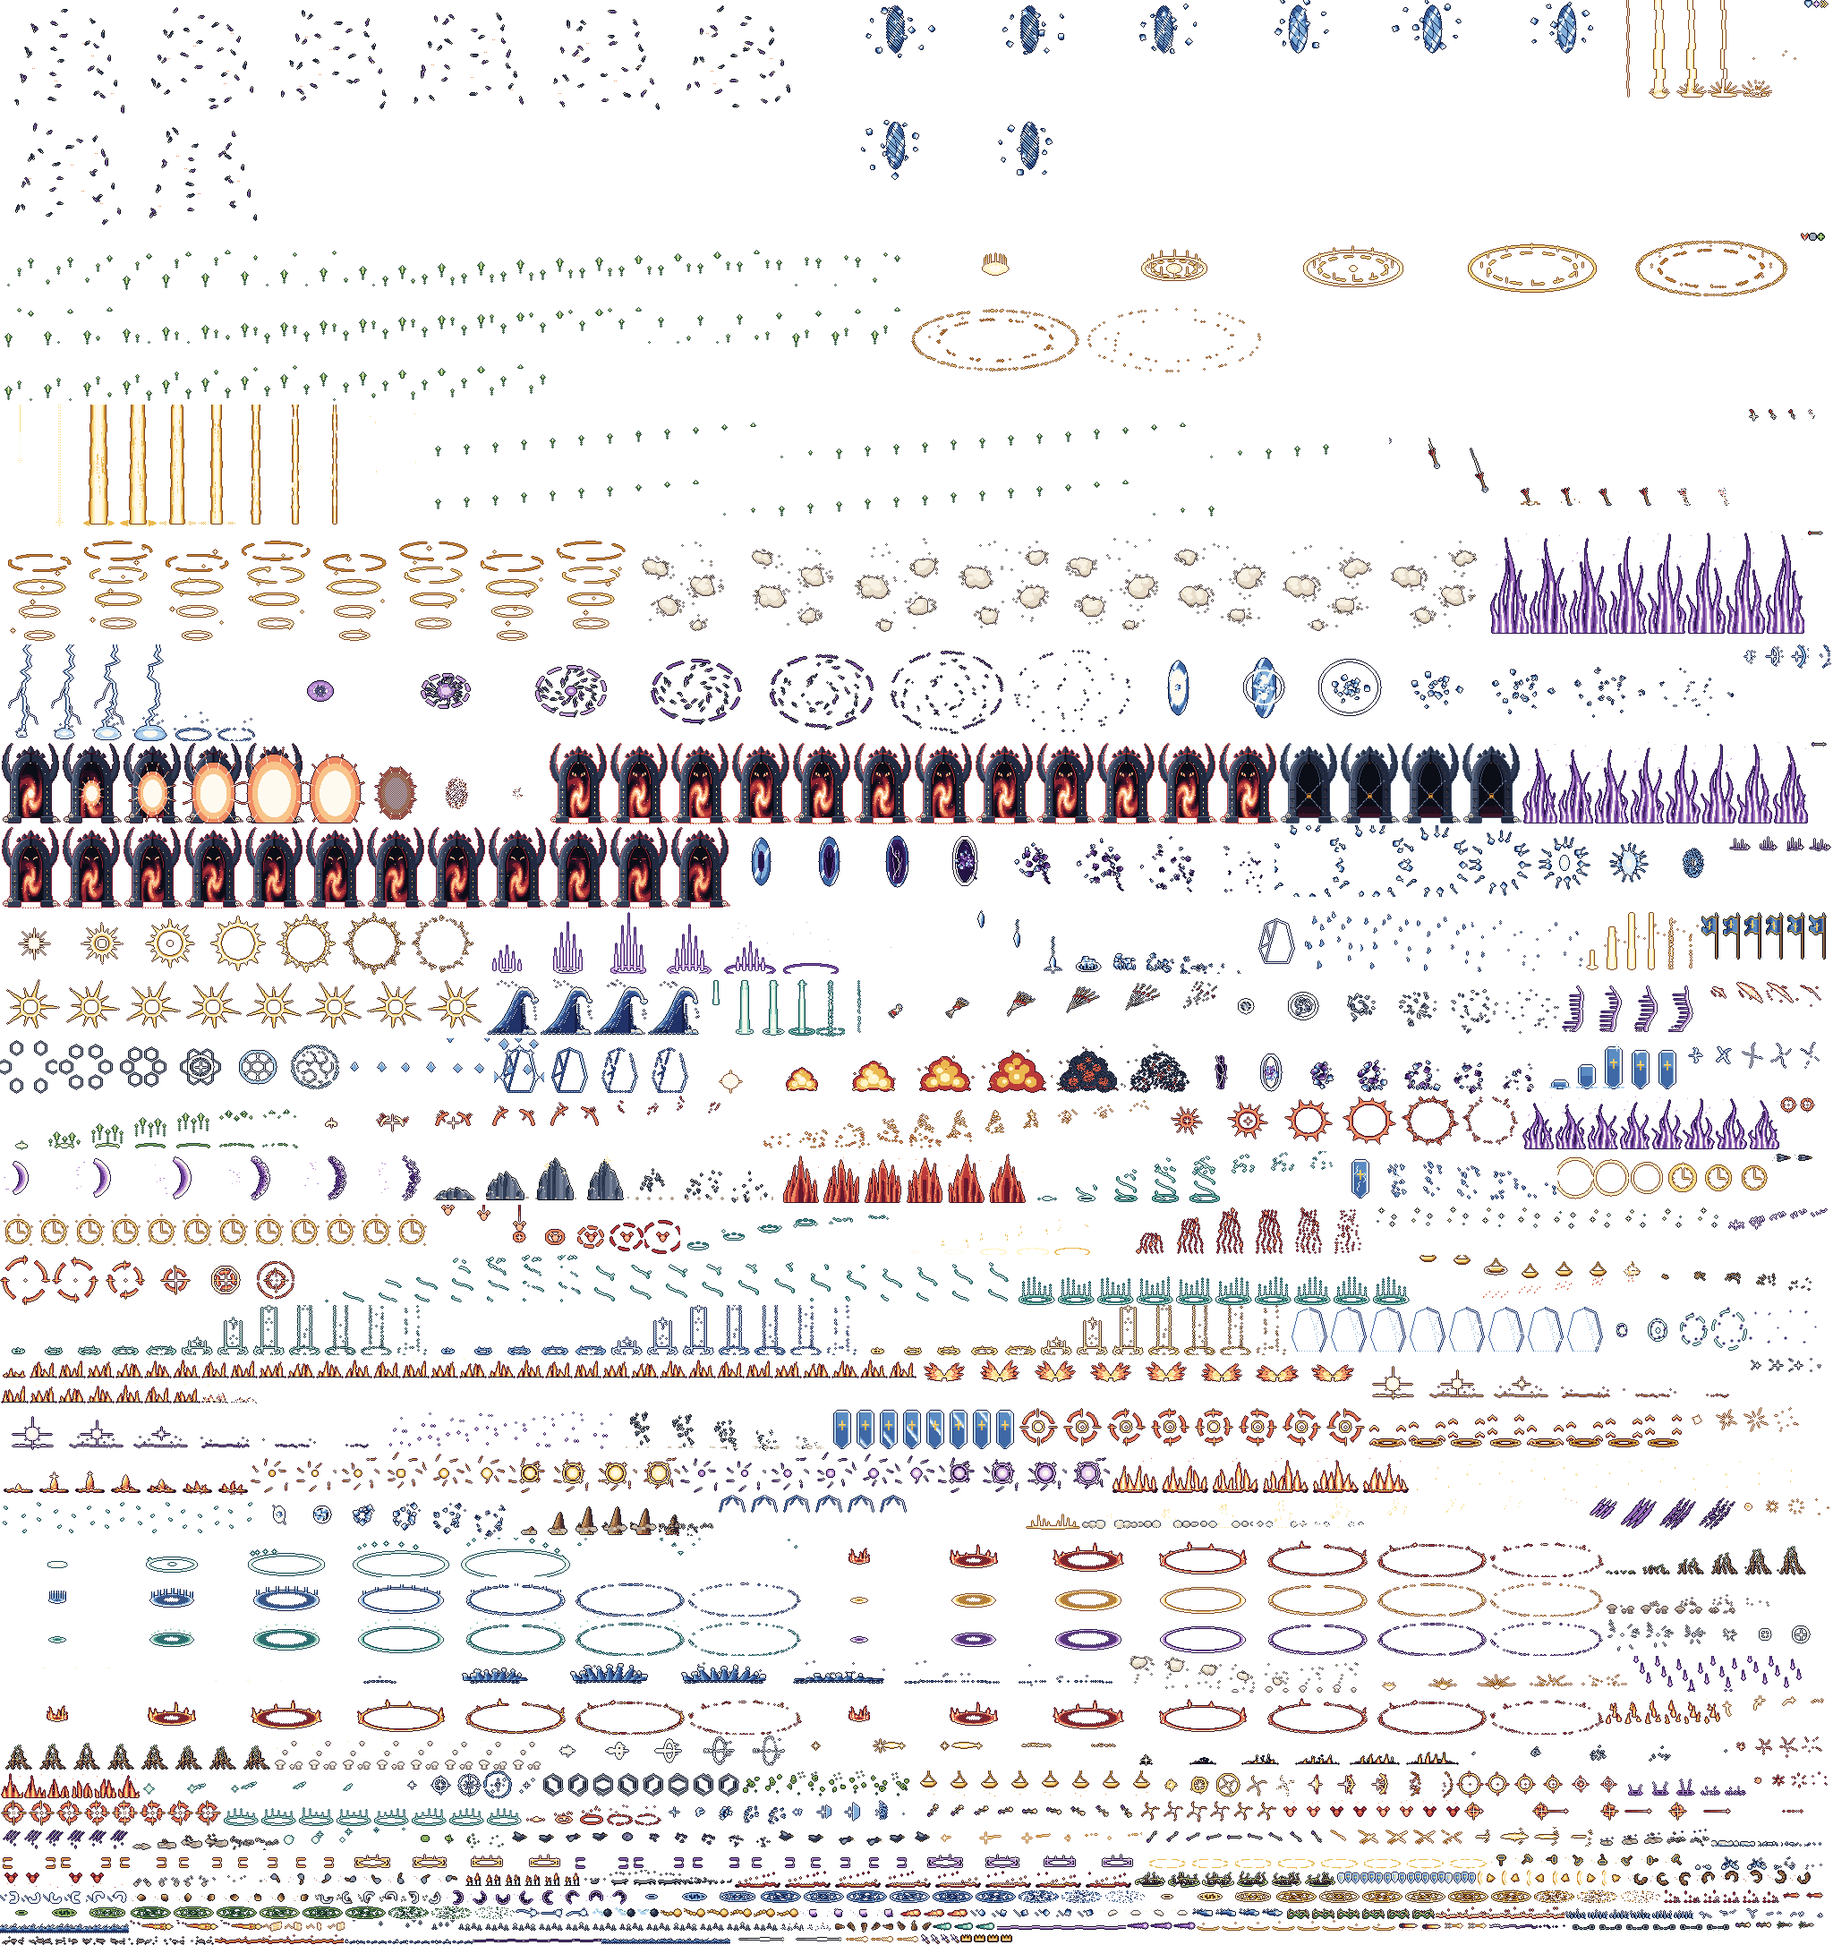
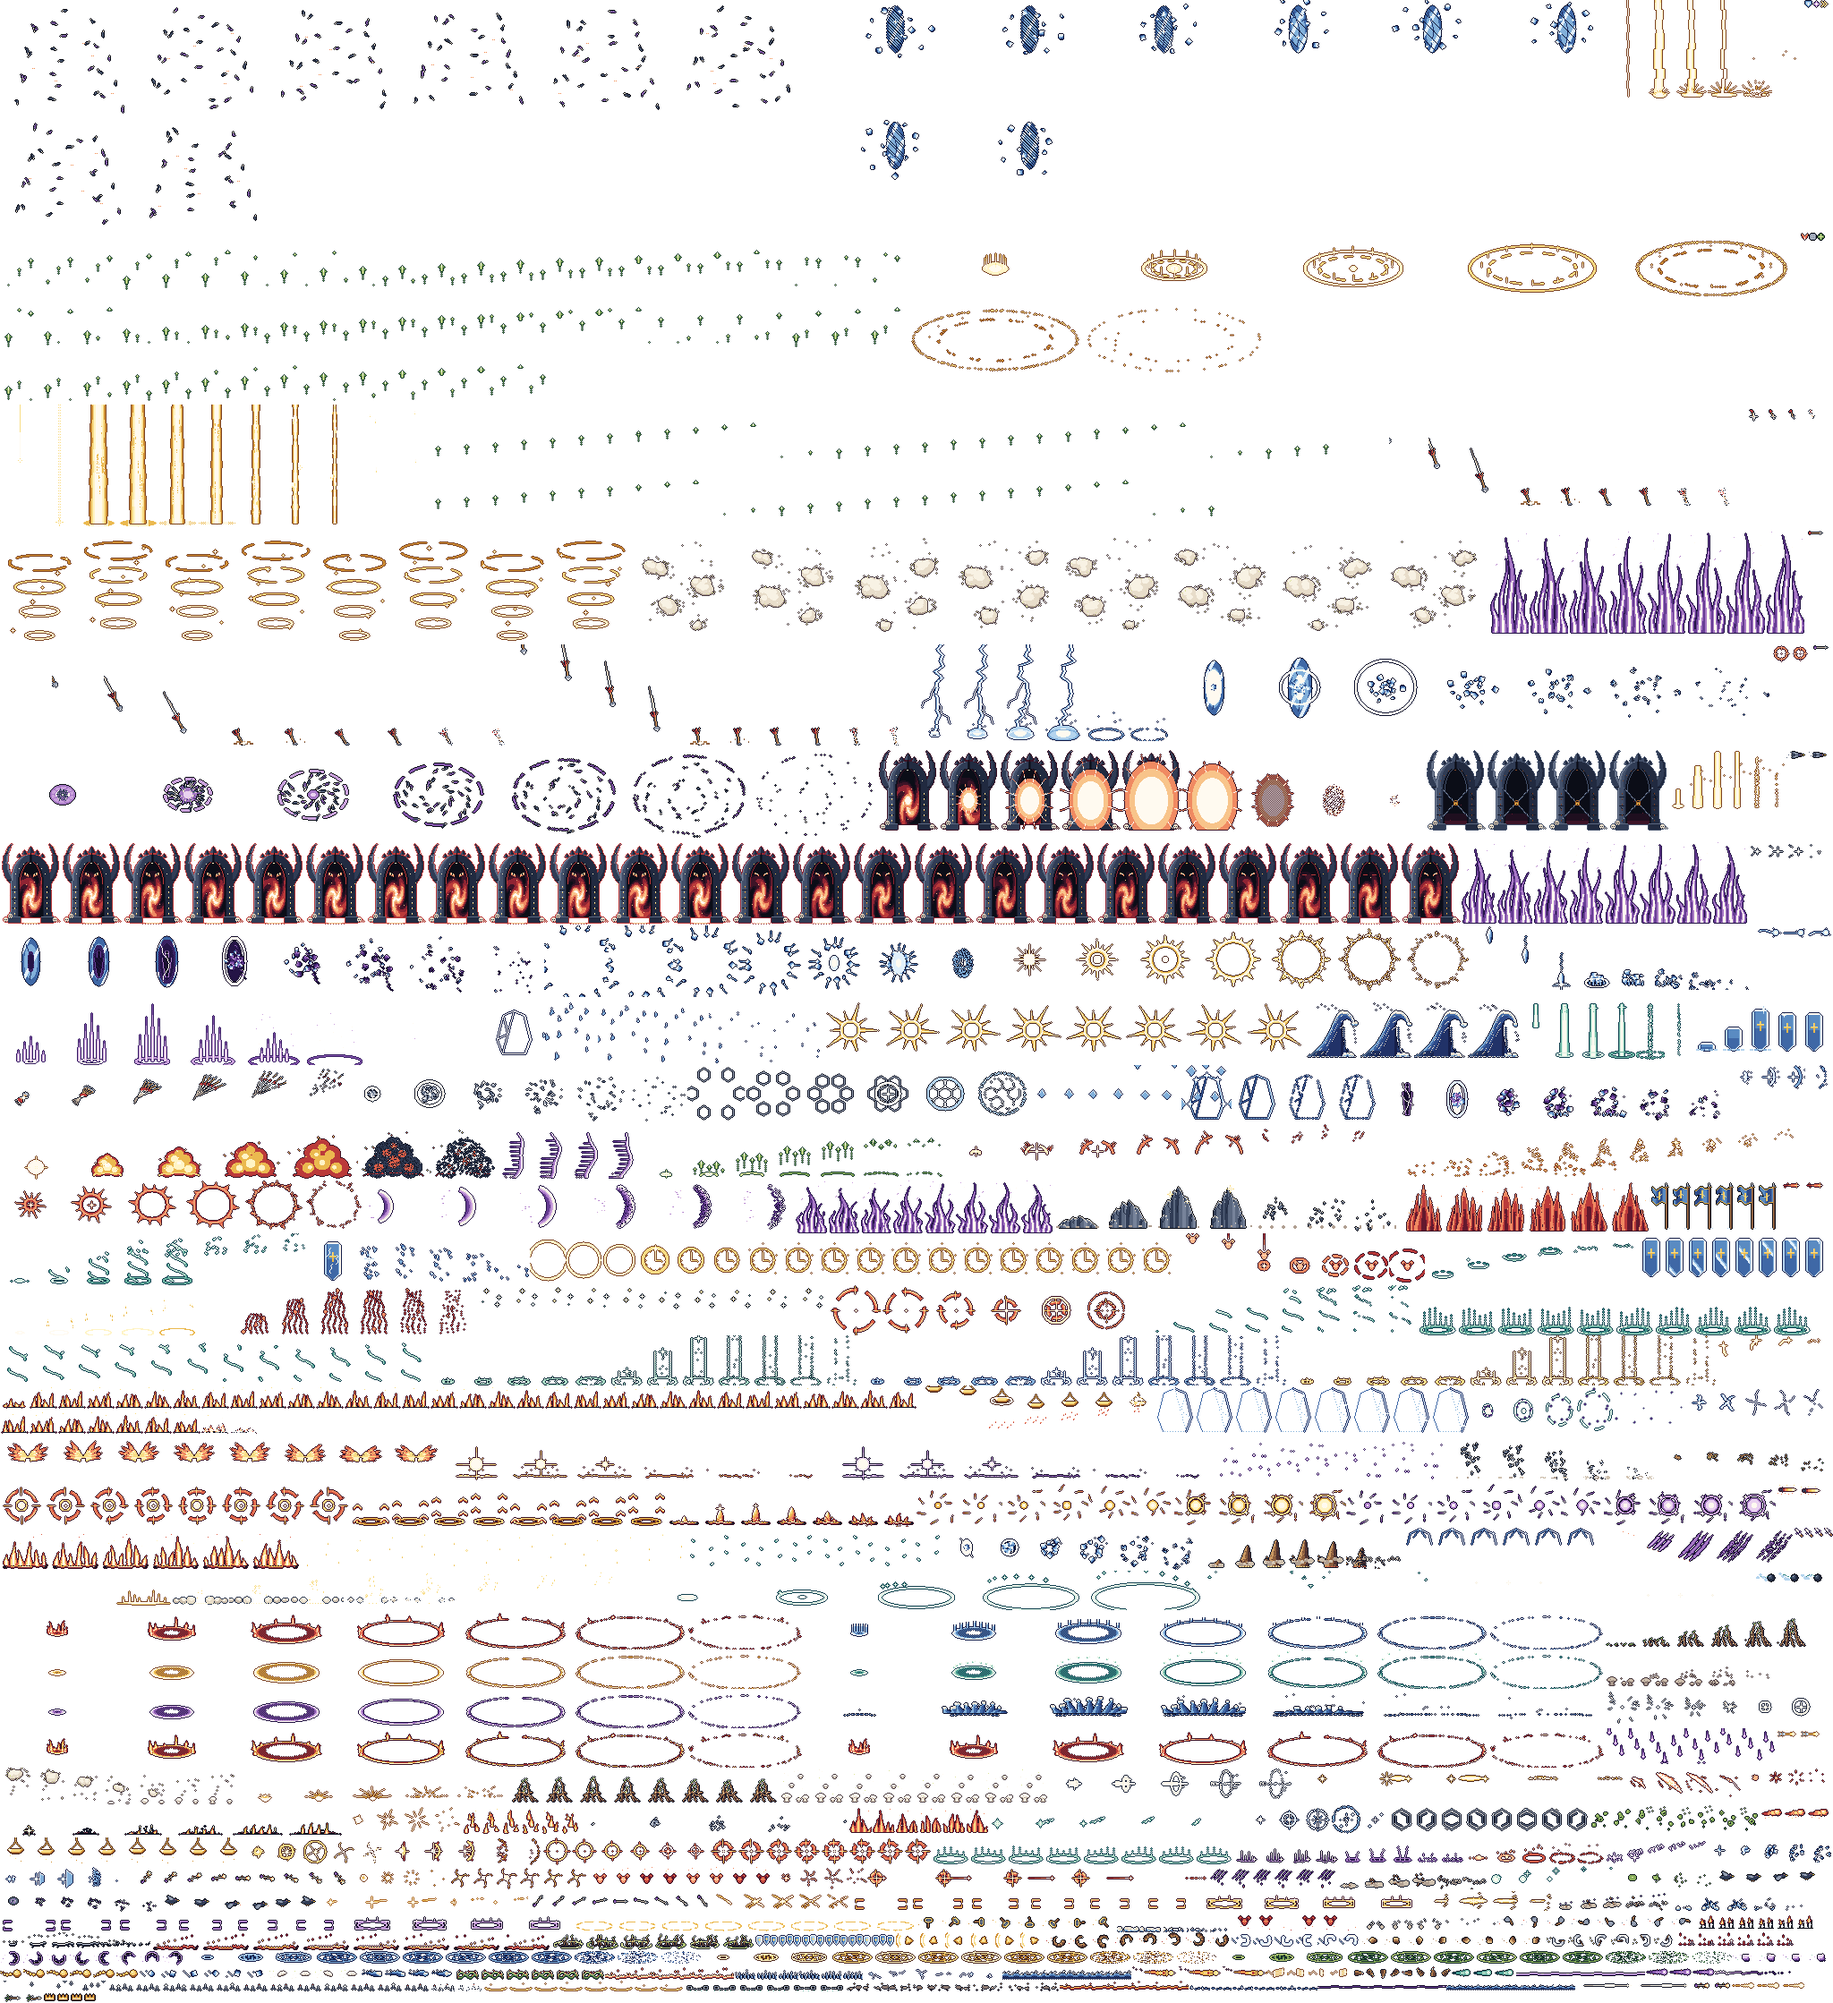
tune(fx): Raining Arrows as a loose rain — half the arrows, anywhere along the band, at three angles and depths, each wave spread over a quarter second (BandLook loose/variants/depth)

diff --git a/src/game/render/abilityFx.ts b/src/game/render/abilityFx.ts
@@ -87,6 +87,12 @@ export interface BandLook {
   count?: number;
   /** The band reaches this many pixels past each end of the wave (a rain wider than what it falls on). */
   reach?: number;
+  /** Placed anywhere along the band at random, not one per `every` pixels in a row (a rain, not a fence). */
+  loose?: boolean;
+  /** Each one drawn from these instead of `fx` alone, at random (the rain's arrows at three angles). */
+  variants?: readonly string[];
+  /** Each one set this many pixels nearer or further at random (above or below the ground line). */
+  depth?: number;
 }
 
 export interface AbilityLook {
@@ -189,8 +195,10 @@ export const ABILITY_LOOKS: Readonly<Record<string, AbilityLook>> = {
   // arrows, close together, a rain wider than the wave (2026-11-19, user: «más aparente… 3 oleadas claras»).
   ranger_multishot: {
     cast: [{ fx: 'volley_launch', spot: 'caster-over', atBlow: true }],
-    band: [{ fx: 'arrow_fall', layer: 'air', every: 8, spreadMs: 100, atBlow: true, delayMs: 40, reach: 18 }],
-    hit: 'arrow_hit', hitDelayMs: 240,
+    // A loose rain (user: «demasiadas flechas y muy alineadas… ráfagas menos uniformes»): one arrow every 14 px,
+    // anywhere along the band, at one of three angles and depths, coming down over a quarter of a second.
+    band: [{ fx: 'arrow_fall', variants: ['arrow_fall', 'arrow_fall_steep', 'arrow_fall_low'], layer: 'air', every: 14, spreadMs: 260, atBlow: true, delayMs: 20, reach: 18, loose: true, depth: 4 }],
+    hit: 'arrow_hit', hitDelayMs: 300,
   },
   // Explosive Arrow: one burning arrow to the front of the wave, and the blast where it lands.
   ranger_focus: { shot: { fx: 'arrow_fire', land: 'fire_blast' }, shotTo: 'front' },

diff --git a/src/game/GameStrip.ts b/src/game/GameStrip.ts
@@ -842,10 +842,15 @@ export class GameStrip {
     const n = scatter.count ?? bandCount(halfW * 2, scatter.every);
     const step = (halfW * 2) / n;
     for (let i = 0; i < n; i++) {
-      const x = band.cx - halfW + step * (i + 0.5) + (scatter.count === undefined ? (Math.random() - 0.5) * step * 0.6 : 0);
+      const x =
+        scatter.loose === true
+          ? band.cx - halfW + Math.random() * halfW * 2
+          : band.cx - halfW + step * (i + 0.5) + (scatter.count === undefined ? (Math.random() - 0.5) * step * 0.6 : 0);
+      const y = groundY + (scatter.depth !== undefined ? Math.round((Math.random() * 2 - 1) * scatter.depth) : 0);
+      const fx = scatter.variants !== undefined && scatter.variants.length > 0 ? (scatter.variants[Math.floor(Math.random() * scatter.variants.length)] ?? scatter.fx) : scatter.fx;
       // In order from the near end (a sweep) or at random over `spreadMs`.
       const at = wait + (scatter.delayMs ?? 0) + (scatter.sweepMs !== undefined ? (scatter.sweepMs * i) / Math.max(1, n - 1) : Math.random() * (scatter.spreadMs ?? 0));
-      this.delayed.add(at, () => layer.play(scatter.fx, x, groundY));
+      this.delayed.add(at, () => layer.play(fx, x, y));
     }
   }
 

diff --git a/docs/redesign/lab/abilities_r1.html b/docs/redesign/lab/abilities_r1.html
@@ -1,6 +1,6 @@
 <div class="item-group">
   <h3>Lluvia de flechas · ahora</h3>
-  <p class="muted">Tres oleadas, cada una con un tercio del daño (el total es el mismo), cada 0,45 s. Flechas grandes que caen desde más alto, se clavan levantando tierra y desaparecen antes de que llegue la siguiente, para que se distingan las tres. La franja llega algo más allá de la oleada enemiga.</p>
+  <p class="muted">Tres oleadas, cada una con un tercio del daño (el total es el mismo), cada 0,45 s. Ahora menos flechas (la mitad) y sueltas: caen en sitios al azar, con tres ángulos distintos, a algo distinta profundidad, y cada oleada se reparte en un cuarto de segundo, así que ninguna sale igual. Se clavan y se van antes de la siguiente. (El destello blanco de los enemigos es solo de esta vista previa; en el juego es el destello normal de golpe.)</p>
   <img class="px" src="img/abil/rain_now.gif" alt="Lluvia de flechas, ahora: tres oleadas" style="width:100%;max-width:760px;height:auto;border:1px solid var(--line)">
 </div>
 <div class="item-group">

diff --git a/tools/assets/pipeline/ability_preview.py b/tools/assets/pipeline/ability_preview.py
@@ -112,20 +112,25 @@ PARTY = (("priest", 150), ("ranger", 200), ("knight", 252))
 FOES = (("boar", 300), ("scarecrow", 334), ("poacher", 366), ("boar", 398), ("scarecrow", 430))
 
 
-def rain_scene(atlas: Atlas, waves: int, every: int, spacing: int, reach: int, spread: int, delay: int, hit_after: int) -> list[Image.Image]:
+def rain_scene(atlas: Atlas, waves: int, every: int, spacing: int, reach: int, spread: int, delay: int, hit_after: int,
+               loose: bool = False, variants: tuple[str, ...] = (), depth: int = 0) -> list[Image.Image]:
     """Raining Arrows: the Ranger looses the volley, then `waves` waves of arrows come down over the enemy wave."""
     back, fore = backdrop(1)
     release = 640  # the volley clip's release (about where the game puts it)
     left, right = FOES[0][1] - 10 - reach, FOES[-1][1] + 10 + reach
     rnd = random.Random(4)
-    drops: list[tuple[int, float]] = []
+    drops: list[tuple[int, float, str, int]] = []
     hits: list[int] = []
     for w in range(waves):
         start = release + w * every + delay
         n = max(3, round((right - left) / spacing))
         for k in range(n):
-            x = left + (right - left) * (k + 0.5) / n + (rnd.random() - 0.5) * (right - left) / n * 0.6
-            drops.append((start + int(rnd.random() * spread), x))
+            if loose:
+                x = left + rnd.random() * (right - left)
+            else:
+                x = left + (right - left) * (k + 0.5) / n + (rnd.random() - 0.5) * (right - left) / n * 0.6
+            fx = variants[rnd.randrange(len(variants))] if variants else "arrow_fall"
+            drops.append((start + int(rnd.random() * spread), x, fx, round((rnd.random() * 2 - 1) * depth)))
         hits.append(release + w * every + hit_after)
     end = release + (waves - 1) * every + 1300
     frames = []
@@ -140,8 +145,8 @@ def rain_scene(atlas: Atlas, waves: int, every: int, spacing: int, reach: int, s
             flash = any(0 <= t - h < 90 for h in hits)
             draw_fig(img, name, x, "idle", t + x * 5, flip=True, loop=True, flash=flash)
         draw_fx(img, atlas, "volley_launch", t - release, 200, PATH_Y)
-        for start, x in drops:
-            draw_fx(img, atlas, "arrow_fall", t - start, x, PATH_Y)
+        for start, x, fx, dy in drops:
+            draw_fx(img, atlas, fx, t - start, x, PATH_Y + dy)
         for h in hits:
             for _name, x in FOES:
                 draw_fx(img, atlas, "arrow_hit", t - h, x, PATH_Y - 16)
@@ -187,7 +192,8 @@ def main(argv: list[str]) -> None:
     OUT.mkdir(parents=True, exist_ok=True)
     now, before = Atlas(), Atlas(before_rev)
     save_gif(rain_scene(before, waves=1, every=0, spacing=9, reach=0, spread=260, delay=60, hit_after=180), OUT / "rain_before.gif")
-    save_gif(rain_scene(now, waves=3, every=450, spacing=8, reach=18, spread=100, delay=40, hit_after=240), OUT / "rain_now.gif")
+    save_gif(rain_scene(now, waves=3, every=450, spacing=14, reach=18, spread=260, delay=20, hit_after=300, loose=True,
+                         variants=("arrow_fall", "arrow_fall_steep", "arrow_fall_low"), depth=4), OUT / "rain_now.gif")
     save_gif(cry_scene(before, "battlecry_flames"), OUT / "cry_before.gif")
     save_gif(cry_scene(now, "battlecry_aura"), OUT / "cry_now.gif")
     for p in sorted(OUT.glob("*.gif")):

diff --git a/tools/assets/pipeline/fx/ranger.py b/tools/assets/pipeline/fx/ranger.py
@@ -281,11 +281,11 @@ def _war_arrow(cel: Cel, hx: float, hy: float, ang: float, ln: int = 22) -> None
             cel.put(hx - dx * s + nx * k, hy - dy * s + ny * k, ("crimson", 6 if side < 0 else 4))
 
 
-def arrow_fall(cel: Cel, i: int, t: float) -> None:
-    """One arrow of the rain: a big war arrow streaking down from high up, biting into the ground with a burst of
-    dirt, quivering, then gone. Three waves of them come down over the wave (render/abilityFx ranger_multishot)."""
-    gx, gy = 26, 112  # where it lands
-    ang = 70.0
+def _arrow_fall(cel: Cel, i: int, ang: float, gx: int = 26) -> None:
+    """One arrow of the rain: a big war arrow streaking down from high up at `ang` degrees, biting into the ground
+    with a burst of dirt, quivering, then gone. Three waves of them come down over the wave (render/abilityFx
+    ranger_multishot), each arrow one of three angles so the rain does not stand in rows."""
+    gy = 112  # where it lands (at x = gx, the cell's anchor)
     a = math.radians(ang)
     dx, dy = math.cos(a), math.sin(a)
     if i < 4:
@@ -311,6 +311,18 @@ def arrow_fall(cel: Cel, i: int, t: float) -> None:
             cel.put(gx - 10 + k * 5, gy - 3 - (k % 2) * 3, ("leather", 3))
     if i >= 8:
         thin(cel, (0.6, 0.3)[min(i - 8, 1)], 12)
+
+
+def arrow_fall(cel: Cel, i: int, t: float) -> None:
+    _arrow_fall(cel, i, 70.0)
+
+
+def arrow_fall_steep(cel: Cel, i: int, t: float) -> None:
+    _arrow_fall(cel, i, 79.0)
+
+
+def arrow_fall_low(cel: Cel, i: int, t: float) -> None:
+    _arrow_fall(cel, i, 62.0, gx=40)
 
 
 def arrow_hit(cel: Cel, i: int, t: float) -> None:
@@ -655,6 +667,8 @@ FX = [
     Fx("aim_impact", 56, 36, 26, 18, [35, 45, 55, 65, 80], False, aim_impact),
     Fx("volley_launch", 64, 66, 14, 62, [35, 45, 55, 65, 75, 85], False, volley_launch),
     Fx("arrow_fall", 44, 116, 26, 112, [50, 50, 50, 50, 50, 60, 60, 60, 50, 50], False, arrow_fall),
+    Fx("arrow_fall_steep", 44, 116, 26, 112, [50, 50, 50, 50, 50, 60, 60, 60, 50, 50], False, arrow_fall_steep),
+    Fx("arrow_fall_low", 58, 116, 40, 112, [50, 50, 50, 50, 50, 60, 60, 60, 50, 50], False, arrow_fall_low),
     Fx("arrow_hit", 22, 24, 11, 13, [40, 50, 120, 70], False, arrow_hit),
     Fx("fire_blast", 80, 62, 40, 58, [35, 45, 55, 65, 75, 85, 95], False, fire_blast),
     Fx("burning", 22, 32, 11, 30, [90] * 6, True, burning),

diff --git a/docs/redesign/PROGRESS.md b/docs/redesign/PROGRESS.md
@@ -2365,3 +2365,6 @@ Decisiones del usuario (18 nov), tras discutirlas una a una:
 - **Lluvia de flechas, ajuste tras verla animada:** con las flechas 0,5 s clavadas las tres oleadas se fundían en una
   alfombra. Caída más lenta (4 × 50 ms), clavada ~0,3 s, una cada 8 px: cada oleada cae, se clava y se va antes de la
   siguiente. Animaciones antes/ahora en el lab (`run.sh ability-preview <rev de antes>` → GIFs reales del juego).
+- **Lluvia de flechas, segunda vuelta (usuario):** «demasiadas flechas y muy alineadas… ráfagas menos uniformes». Una
+  cada 14 px, en sitios al azar (`BandLook.loose`), a tres ángulos (`arrow_fall` 70°, `_steep` 79°, `_low` 62°:
+  `variants`) y ±4 px de profundidad (`depth`), repartidas en 260 ms por oleada. Grito de guerra aprobado («fantástico»).
